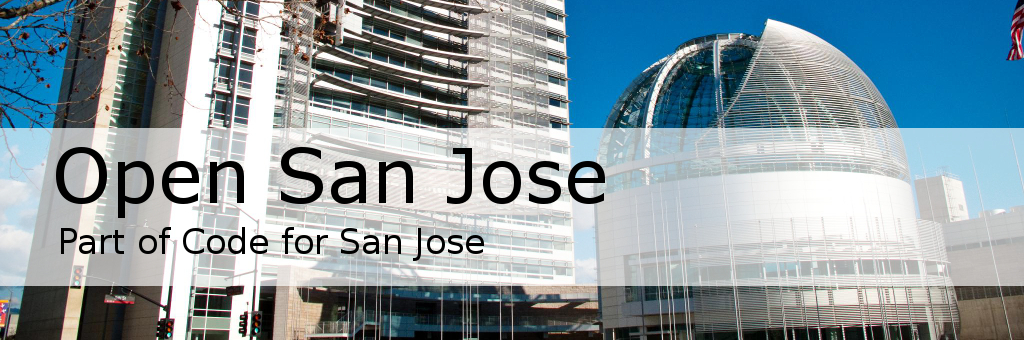
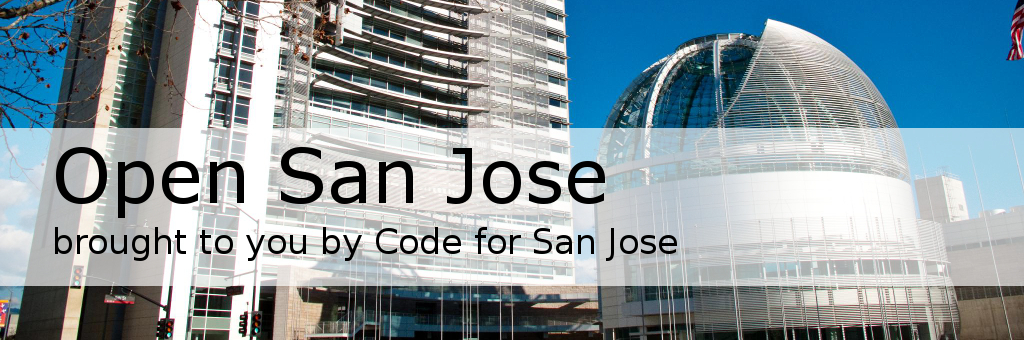
final changes

Changed region(s): [[0.0312, 0.6765, 0.6562, 0.7647]]

diff --git a/opendatapledge/test.html b/opendatapledge/test.html
@@ -36,7 +36,7 @@ I will take steps so that San Jose responds to its citizens' desire for governme
 		</div>
 		<div class="width-candidates">
 			<div class="canidate-img"><center><img src="Nchappiejones.jpg" border="1" class="canidates-img-1"><p class="notsigned">Charles "Chappie" Jones <br>has not signed the pledge</p></center><br></div>
-			<div class="canidate-img"><center><img src="Ypaulfong.jpg" border="1" class="canidates-img-1"><p class="signed">Paul Fong <br>has signed the pledge</p></center><br></div>
+			<div class="canidate-img"><center><img src="Npaulfong.jpg" border="1" class="canidates-img-1"><p class="notsigned">Paul Fong <br>has not signed the pledge</p></center><br></div>
 		</div>
 		<div class="width-candidates">
 			<div class="canidate-img"><center><h3>San Jose: District 3 Race</h3></center></div>
@@ -54,7 +54,7 @@ I will take steps so that San Jose responds to its citizens' desire for governme
 		</div>
 		<footer>
 			<p>Header image by <a href="https://www.flickr.com/photos/harshlight/" target="_blank">Anna Fox</a></p>
-			<p>Open San Jose is part of <a href="http://www.codeforsanjose.com" target="_blank">Code for San Jose</a>.</p>
+			<p>Open San Jose is brought to you by <a href="http://www.codeforsanjose.com" target="_blank">Code for San Jose</a>.</p>
 		</footer>
 	</div>
 </body>
